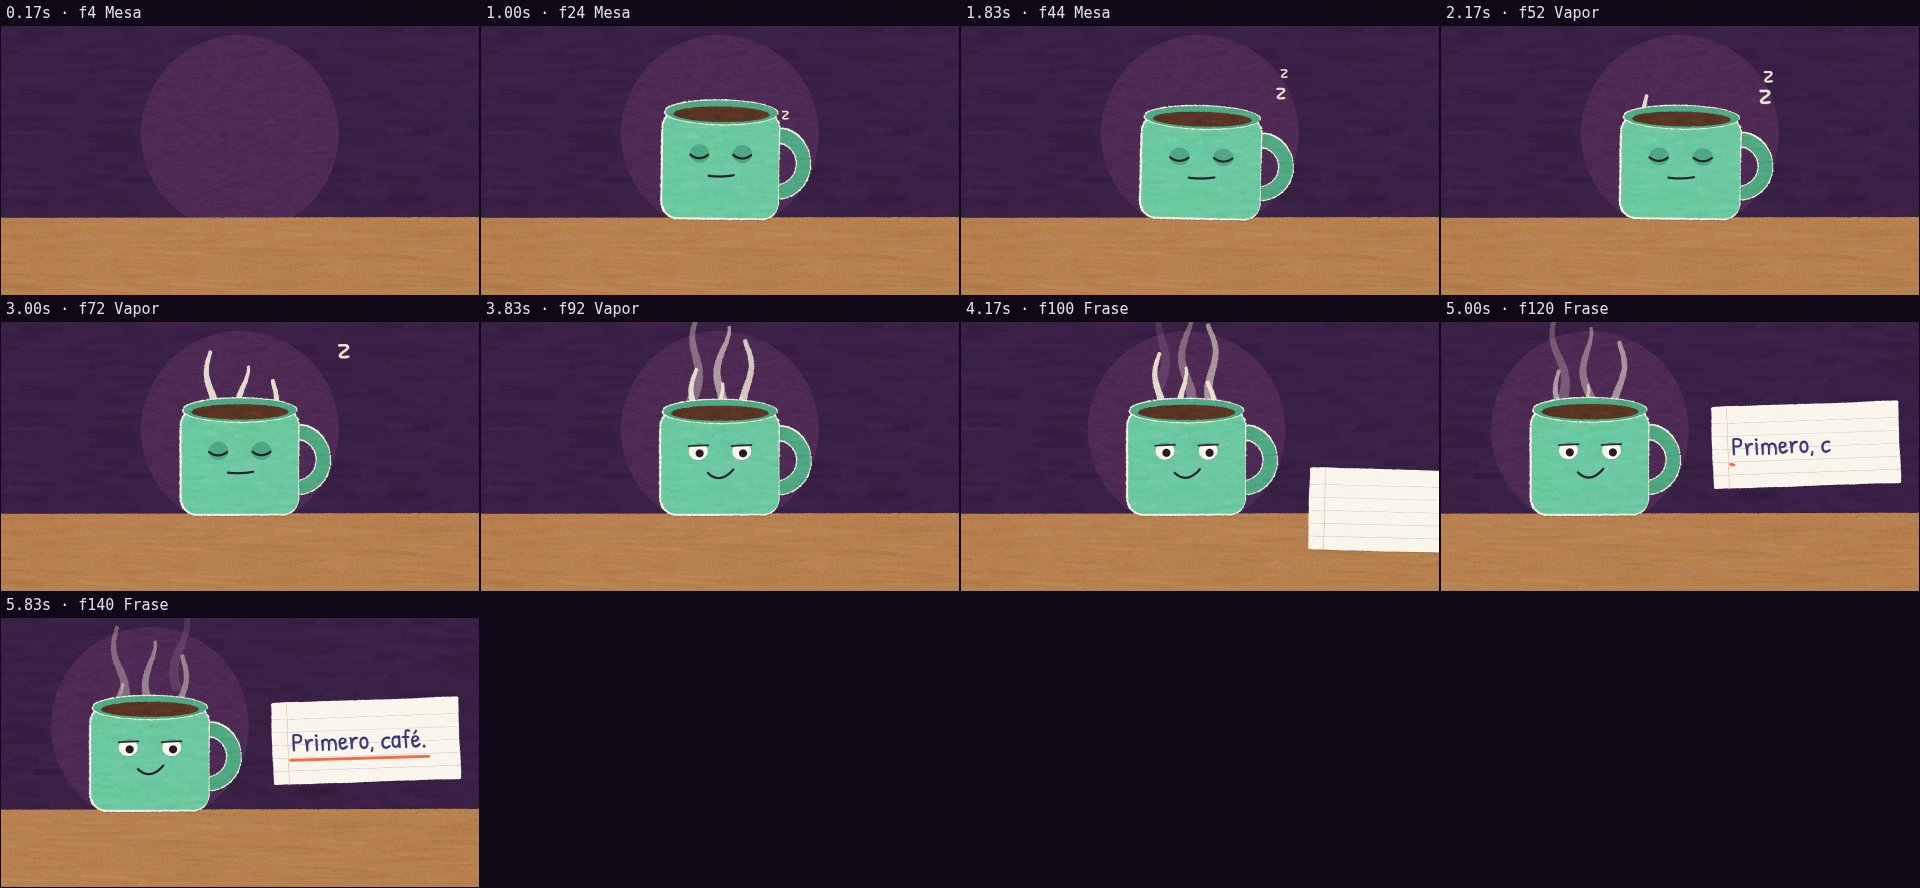
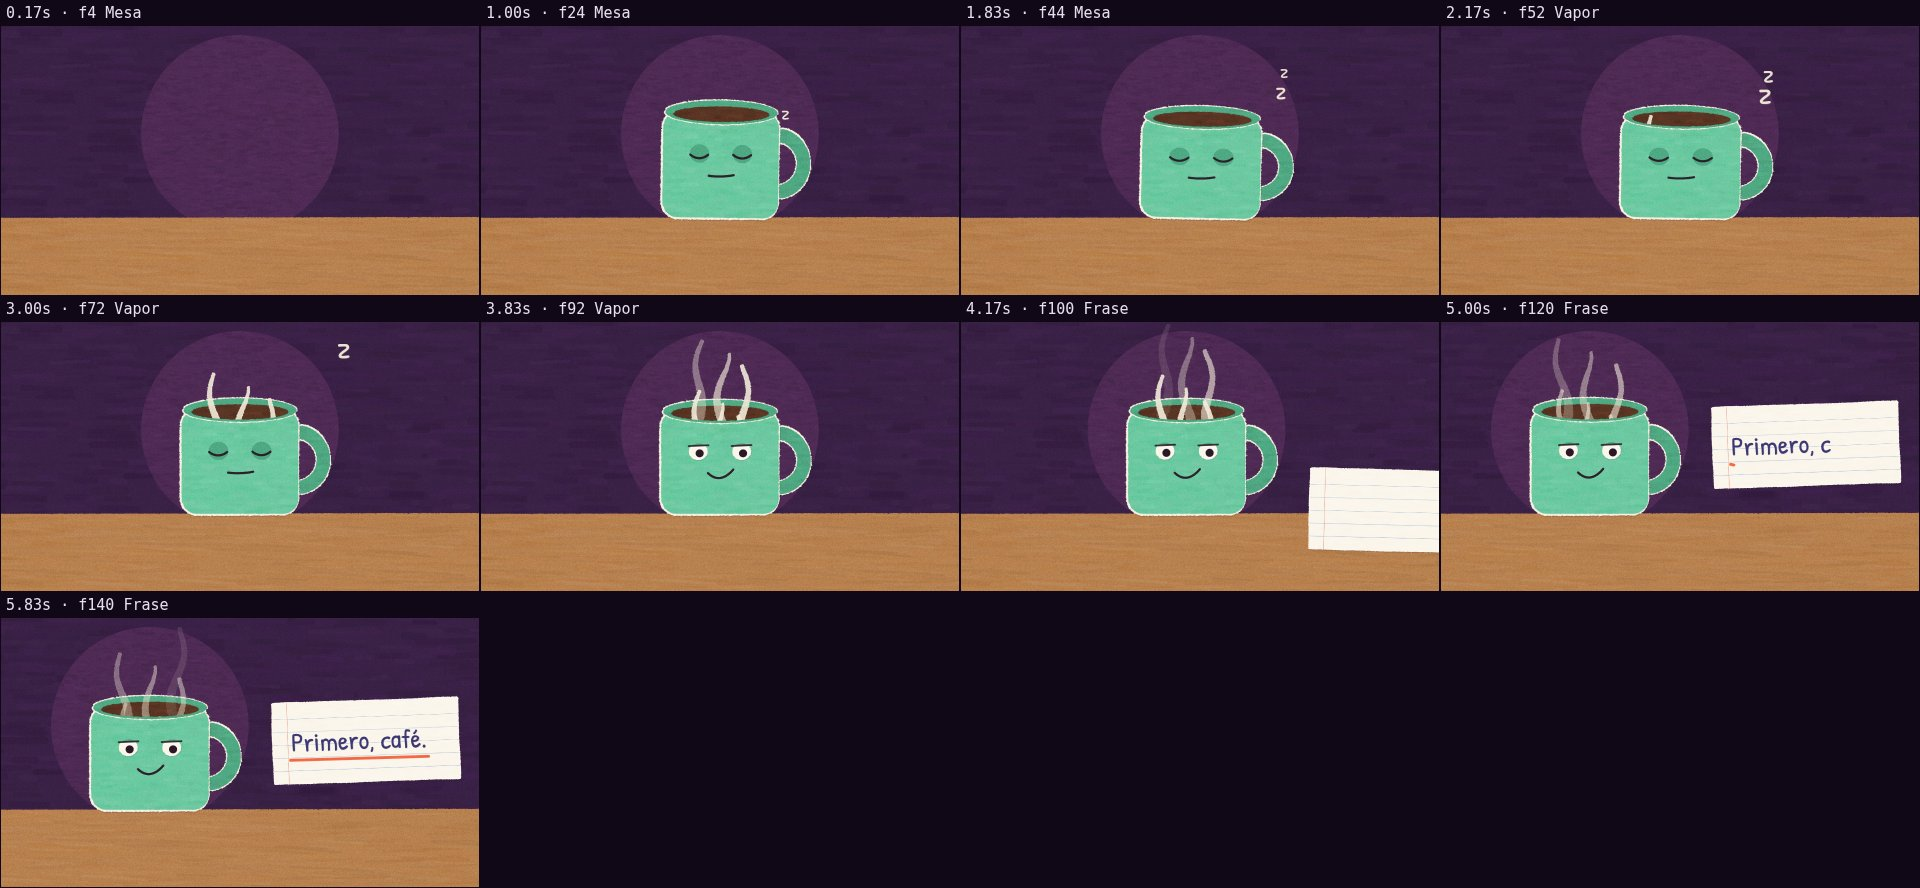
revisar(primero-cafe): ronda 4 · el vapor nace en el café, no detrás de la taza
Feedback del usuario: el humo salía de fuera de la taza. Ahora se pinta delante,
recortado a la superficie del café, y sigue a la taza. Lecciones en el checklist
general de revisar (origen de lo que emana) y en las reglas del estilo.

Claude-Session: https://claude.ai/code/session_01FbC8jfwG91neyKwZD6gkGH

diff --git a/sandbox/2026-09-24-primero-cafe/scene.js b/sandbox/2026-09-24-primero-cafe/scene.js
@@ -41,15 +41,23 @@ Motion.scene({
         const S = 1.5; // escala de la taza
         const sway = t < 3 ? Math.sin(t * 1.2) * 0.03 * E.seg(t, 0.8, 1.2) : 0;
 
-        // vapor, detrás de la taza: sale por detrás del borde
-        for (let i = 0; i < 3; i++) steam(g, t, i, 800 + (i - 1) * 62 * S, y - MUG.h * S + 20);
-
         g.save();
         g.translate(800, y);
         g.rotate(sway);
         g.scale(sx * S, sy * S);
         mug(g, MUG);
         face(g, t);
+        // vapor: nace en la superficie del café. Se pinta DELANTE de la taza, recortado a
+        // «encima de la línea del café» ∪ «dentro del café», así la base de cada tira
+        // queda escondida bajo la superficie y parece salir de ella.
+        const COFFEE = { y: -MUG.h + 4, rx: MUG.w / 2 - 22, ry: 17 };
+        g.save();
+        g.beginPath();
+        g.rect(-600, -1600, 1200, 1600 + COFFEE.y);
+        g.ellipse(0, COFFEE.y, COFFEE.rx, COFFEE.ry, 0, 0, Math.PI * 2);
+        g.clip();
+        for (let i = 0; i < 3; i++) steam(g, t, i, (i - 1) * 55, COFFEE.y);
+        g.restore();
         g.restore();
 
         // «z» que suben mientras duerme
@@ -152,10 +160,12 @@ Motion.scene({
                 if (rise < 0) continue;
                 const f = rise % 1;
                 g.save();
-                g.globalAlpha = 0.9 * (1 - E.seg(f, 0.5, 1)) * E.seg(f, 0, 0.1) * (1 - E.seg(t, 4.3, 5.3) * 0.5);
-                g.translate(x0, y0 + 200 - f * 320);
+                g.globalAlpha = 0.9 * (1 - E.seg(f, 0.55, 1)) * (1 - E.seg(t, 4.3, 5.3) * 0.5);
+                // en unidades de la taza (escalada ×S): la tira empieza entera bajo el café
+                const s = (1 + f * 0.25) / S;
+                g.translate(x0, y0 + 270 * s - f * 230);
                 g.rotate(Math.sin(t * 2 + i + k) * 0.08);
-                g.scale(1 + f * 0.25, 1 + f * 0.25);
+                g.scale(s, s);
                 strip.draw(g);
                 g.restore();
             }

diff --git a/.claude/skills/revisar/SKILL.md b/.claude/skills/revisar/SKILL.md
@@ -41,6 +41,10 @@ Sé duro: el fallo más común de la auto-crítica es aprobar por cansancio. Si 
   sin querer.
 - **Ritmo:** cortes en golpe; los golpes visuales (impactos, sellos, apariciones) caen
   en golpe también.
+- **Origen y física:** todo lo que emana (vapor, humo, chispas, líquido, papeles que
+  salen de una caja) nace visiblemente en su fuente y no por detrás o por encima de
+  ella. Las cosas se apoyan donde deben y caen hacia abajo. Míralo en una foto fija
+  del instante en que aparece.
 - **Continuidad:** personajes y objetos iguales entre planos y respecto a la prueba de
   estilo aprobada; la dirección de mirada y de movimiento es coherente entre cortes.
 - **Composición:** regla de tercios o simetría deliberada, horizonte recto salvo
@@ -89,3 +93,4 @@ mismo commit, para que se vea qué prueba produjo qué cambio.
 <!-- Lecciones sobre el propio proceso de revisión. -->
 - 2026-09-24 · primero-cafe · La hoja a 480 px no enseña los detalles de las caras (unos ojos cerrados que parecían mirar abajo): mira siempre fotos fijas a tamaño real de los primeros planos.
 - 2026-09-24 · primero-cafe · Cuando veas a ojo un fallo que `review.mjs` pudo medir (hueco en el borde), amplía `review.mjs` y pruébalo con una escena rota a propósito antes de fiarte.
+- 2026-09-24 · primero-cafe · Juzgué el vapor por su forma y no por su origen, y el usuario vio que salía de detrás de la taza. Por cada elemento que aparece, pregúntate de dónde sale (ya en el checklist).

diff --git a/.claude/skills/estilo-papel-recortado/SKILL.md b/.claude/skills/estilo-papel-recortado/SKILL.md
@@ -48,6 +48,10 @@ Referencia aprobada: `referencias/fube-la-caja-y-el-torno/` (mira
   recortes fijos (sprite con su semilla) que se desplazan, giran, escalan y se
   desvanecen, varios escalonados. Nunca regeneres cada fotograma un contorno con filo
   rasgado que se deforma: el rasgado se recalcula y hierve.
+  Lo que sale de un recipiente se pinta **delante**, en las coordenadas del recipiente,
+  y recortado (`clip`) a «encima de la superficie» ∪ «la elipse de la superficie»; la
+  pieza empieza escondida bajo la superficie y asoma al subir. Pintarlo detrás del
+  recipiente hace que salga de detrás del borde.
 - **Ojos:** abiertos, blanco + pupila + párpado grueso (un tono más oscuro que la cara)
   que nunca sube del todo. Cerrados, el párpado tapa **todo** el blanco y encima va la
   pestaña curva; si asoma blanco se lee «mira abajo», no «duerme».

diff --git a/sandbox/2026-09-24-primero-cafe/review.md b/sandbox/2026-09-24-primero-cafe/review.md
@@ -38,4 +38,13 @@ tap del guiño.
 
 ## Ronda 4 (usuario)
 
-_Pendiente de feedback._
+> «El vídeo de la taza está bien, pero el humo sale fuera de la taza, no del café.»
+
+- Causa: el vapor se pintaba **detrás** de la taza, con la base escondida tras el cuerpo,
+  así que asomaba por detrás del borde. La revisión automática no lo cazó porque el
+  checklist no preguntaba **de dónde sale** cada cosa.
+- **Cambios:** el vapor se pinta delante, en unidades de la taza, recortado a «encima de
+  la línea del café» ∪ «dentro de la elipse del café». Cada tira empieza entera bajo la
+  superficie y asoma al subir. Ahora sigue a la taza en el aplastamiento y el balanceo.
+- **Lecciones:** checklist general de `revisar` (origen de lo que emana) y regla del
+  estilo (cómo recortarlo).

diff --git a/sandbox/INDEX.md b/sandbox/INDEX.md
@@ -2,4 +2,4 @@
 
 | Fecha | Experimento | Estilo | Estado | Lección principal |
 |---|---|---|---|---|
-| 2026-09-24 | [primero-cafe](2026-09-24-primero-cafe/) | papel-recortado | 3 rondas auto · falta feedback | Lo que cambia de forma (vapor) se anima con recortes fijos, no deformando el contorno |
+| 2026-09-24 | [primero-cafe](2026-09-24-primero-cafe/) | papel-recortado | 3 rondas auto + 1 usuario | Lo que emana (vapor) nace en su fuente: delante y recortado a la superficie, con recortes fijos |

diff --git a/sandbox/2026-09-24-primero-cafe/review/auto.md b/sandbox/2026-09-24-primero-cafe/review/auto.md
@@ -21,7 +21,7 @@ Saltos bruscos (cortes o fogonazos; comprobar que son cortes de plano): 4.33 s.
 
 ## Velocidad
 
-Pintado: 42 ms/fotograma en frío, 7 ms en caliente → render completo ≈ 1 s a este tamaño.
+Pintado: 60 ms/fotograma en frío, 10 ms en caliente → render completo ≈ 1 s a este tamaño.
 
 ## Hoja de contacto
 
